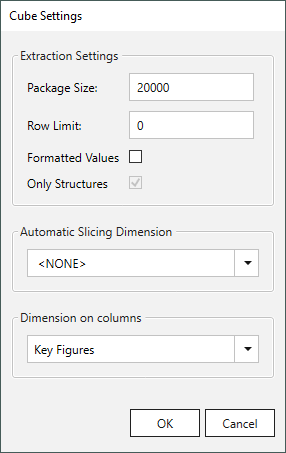
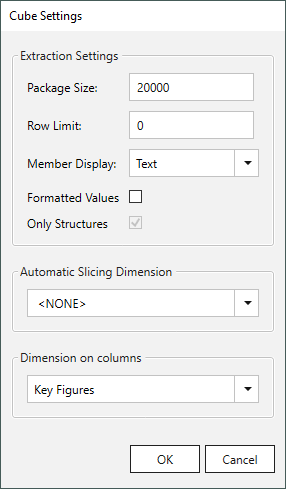
BWCube: BICS techn. name as column name for key figures

diff --git a/_includes/_content/de/bw-infocubes-und-bex-queries/eine-bw-cube-quelle-definieren.md b/_includes/_content/de/bw-infocubes-und-bex-queries/eine-bw-cube-quelle-definieren.md
@@ -35,6 +35,7 @@ Mehr Details finden Sie im Knowledge Base Artikel [Allow external access to BW Q
 | Syntax bei der Suche von InfoProivders | `$[tech. Name des InfoProvoiders]`  <br /> Beispiel: $0SD_C03                                            | `[tech. Name des InfoProviders]` <br /> Beispiel: 0SD_C03      |
 | Wildcards bei der Suche                | Die BEx-Query Einstellung "Allow External Access to this Query" muss aktiv sein, siehe [Allow External Access to BW Queries](https://kb.theobald-software.com/general/allow-external-access-to-bw-queries). <br /> Beispiel: *0SD_C03_Q0018 anstatt 0SD_C03/0SD_C03_Q0018                          | nicht unterstützt          |
 | Unterstützte InfoProviders            | InfoCubes, Multiproviders, Composite Providers                                              | InfoCubes, MuliProviders, Composite Providers, DSOs |   
+| Spaltennamen von Key Figures          | EnterpriseID                                              | Technischer Name <br>Wenn der techn. Name leer ist: Name des Basis-Messwerts. <br>Wenn der Name des Basis-Messwerts leer ist: EnterpriseID<br>**Tipp:** Wenn Namen doppelt vorkommen, ändern Sie den techn. Namen im BEx Query Designer.|   
 
 {: .box-note }
 **Hinweis:** Die BICS-Komponente befindet sich noch in der Beta-Phase. Bei Problemen mit der Komponente, kontaktieren Sie den [Theobald Support](https://support.theobald-software.com).

diff --git a/_includes/_content/en/bw-infocubes-and-bex-queries/bw-cube-extraction-define.md b/_includes/_content/en/bw-infocubes-and-bex-queries/bw-cube-extraction-define.md
@@ -36,6 +36,7 @@ This is necessary if a data source has been adjusted in SAP, another source syst
 | Syntax in lookup for InfoProivders | `$[tech. name of InfoProvoider]`  <br /> example: $0SD_C03                                            | `[tech. name of InfoProvider]` <br /> example: 0SD_C03      |
 | Wildcards in lookup                | The BEx-Query setting "Allow External Access to this Query" is required, see [Allow External Access to BW Queries](https://kb.theobald-software.com/general/allow-external-access-to-bw-queries). <br /> example: *0SD_C03_Q0018 instead of 0SD_C03/0SD_C03_Q0018                          | not required and therefore not supported           |
 | Supported InfoProviders            | InfoCubes, Multiproviders, Composite Providers                                              | InfoCubes, MuliProviders, Composite Providers, DSOs |
+| Column names of Key figures           | EnterpriseID                                              | Technical name<br>  If techn. name is empty: name of the base measure.  <br> If name of the base measure is empty: EnterpriseID. <br>**Tip:** In case of duplicate names, change the technical name in the BEx Query Designer. |
 
 {: .box-note }
 **Note:** The BICS component is still in beta phase. Contact [Theobald Support](https://support.theobald-software.com) in case of errors.

diff --git a/_includes/_content/de/bw-infocubes-und-bex-queries/infocube-extraktionseinstellungen.md b/_includes/_content/de/bw-infocubes-und-bex-queries/infocube-extraktionseinstellungen.md
@@ -20,6 +20,12 @@ Wenn der Wert auf 0 gesetzt wird, wird die komplette Ergebnismenge abgerufen.
 Diese Option wird im BICS Modus nicht unterstützt.<br>
 **Row Limit** kann verwendet werden, um einen Test mit einer kleinen Datenmenge durchzuführen, indem Sie z.B. 1000 (nicht 0) als Zeilenlimit eintragen.
 
+**Member Display** <br>
+Diese Einstellung ist nur im BICS-Modus verfügbar.<br>
+*Key*: Extrahiert den Schlüssel eines Dimensionslements.<br>
+*Text* (default): Extrahiert den Text eines Dimensionselements.<br>
+*Text and Key*: Fügt für jede Dimension eine Spalte mit dem Suffix `.KEY` hinzu. Die Original-Spalte enthält den Text des Dimensionslements, die neue `.KEY` Spalte enthält den Schlüssel des Dimensionslements. 
+
 **Formatted Values**<br>
 Wenn diese Option aktiv ist, werden die Werte der Kennzahlen so ausgegeben, wie im Query-Designer definiert (z.B. Skalierungsfaktor und Dezimalstellen).
 

diff --git a/_includes/_content/en/bw-infocubes-and-bex-queries/bw-cube-extraction-settings.md b/_includes/_content/en/bw-infocubes-and-bex-queries/bw-cube-extraction-settings.md
@@ -20,6 +20,12 @@ If the value is set to 0, the complete result set is fetched.
 This option is not supported when using BICS mode.<br>
 You can use **Row Limit** to perform tests with a small amount of data by entering a row limit of e.g., 1000 (not 0).
 
+**Member Display** <br>
+This setting is only available for the BICS extractor.<br>
+*Key*: Extracts the key of the dimension member.<br>
+*Text* (default): Extracts the text of the dimension member.<br>
+*Text and Key*: Adds an additional column for every dimension with the suffix `.KEY`. The original column contains the text of the dimension member, the column with the `.KEY` suffix contains the key of the dimension member.
+
 **Formatted Values** <br>
 If this option is active, the values of key figures are formatted as defined in the Query Designer e.g., scaling factor and number of decimal places.
 

diff --git a/content/_en/xtract-universal/bwcube/bw-cube-extraction-define.md b/content/_en/xtract-universal/bwcube/bw-cube-extraction-define.md
@@ -10,7 +10,6 @@ weight: 1
 lang: en_GB
 old_url: /Xtract-Universal-EN/default.aspx?pageid=define-a-bw-cube-extraction
 ---
-
 The following section shows how to use the BW Cube component. <br>
 
 {% include _content/en/bw-infocubes-and-bex-queries/bw-cube-extraction-define.md %}
